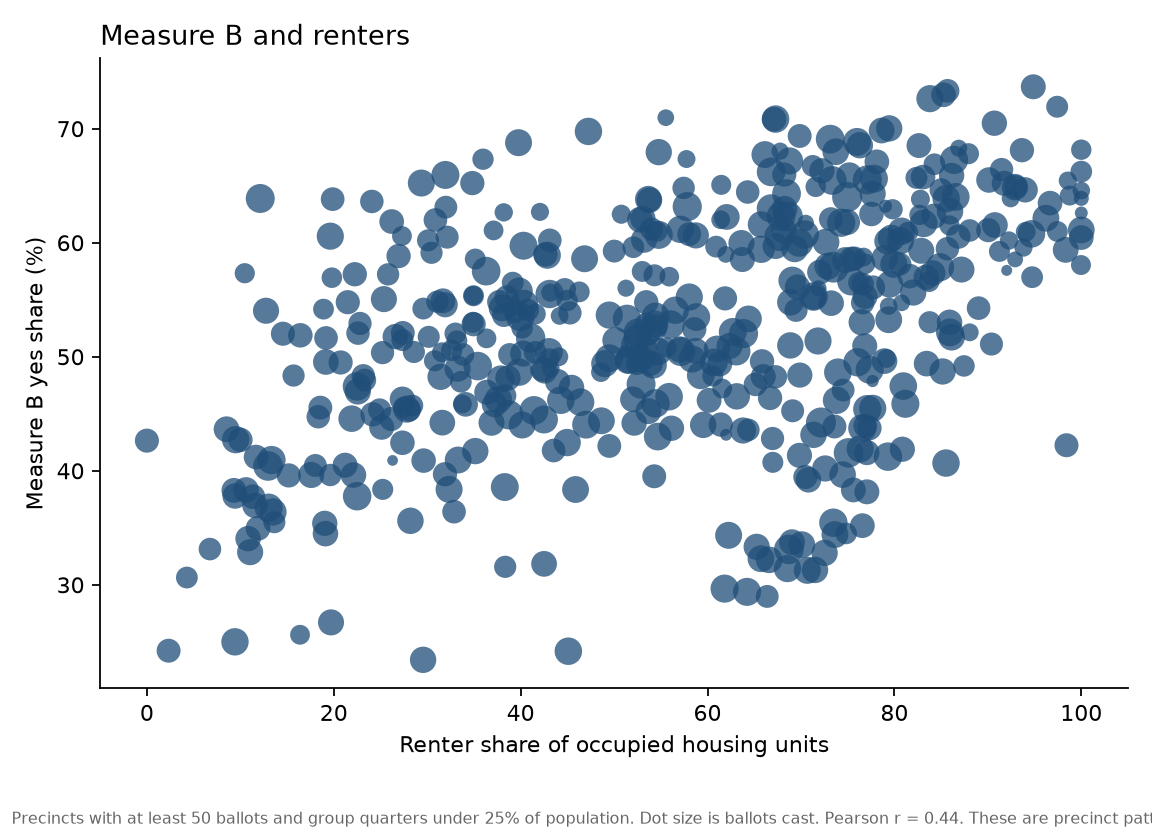
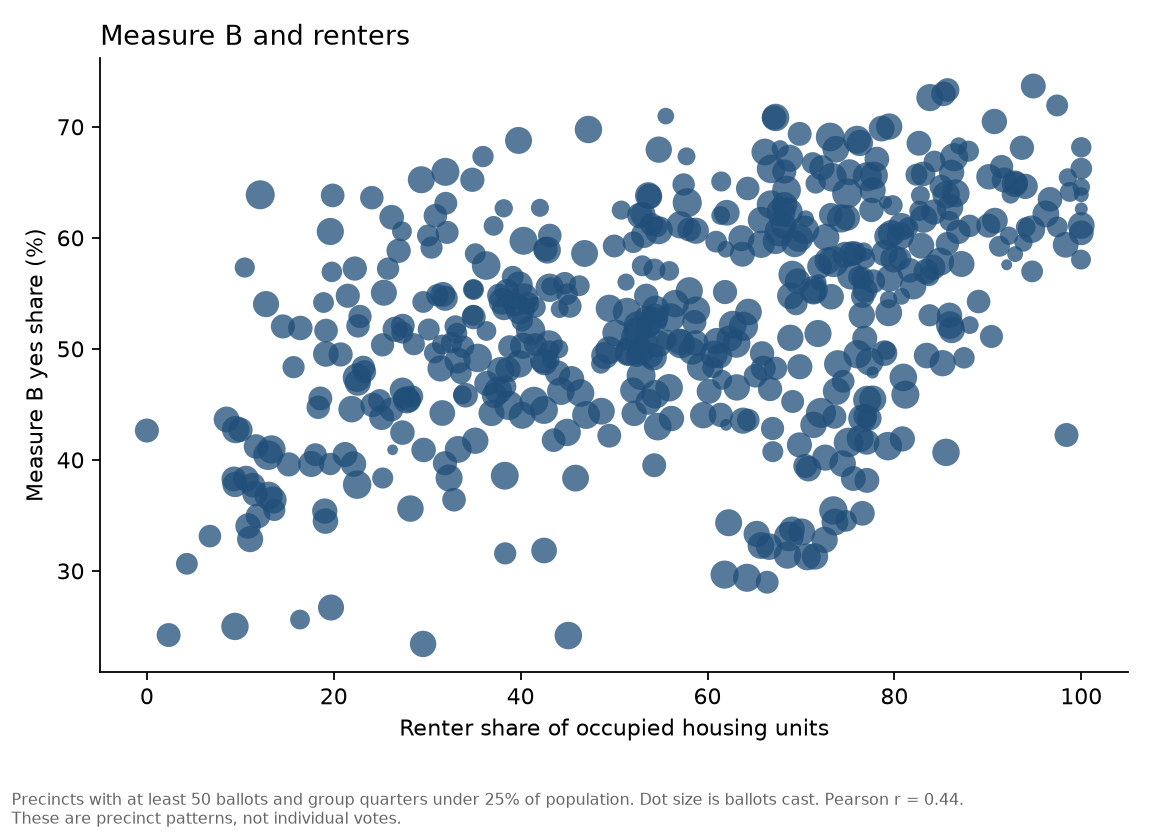
Fit every map's color scale to its data, hatch precincts with no rate, and stop clipping scatter footnotes

diff --git a/analysis/build_findings.py b/analysis/build_findings.py
@@ -9,6 +9,7 @@ not committed. Run from the repository root:
 from __future__ import annotations
 
 import json
+import math
 import re
 import urllib.request
 from pathlib import Path
@@ -17,6 +18,7 @@ import geopandas as gpd
 import matplotlib.pyplot as plt
 import pandas as pd
 from matplotlib.colors import Normalize, TwoSlopeNorm
+from matplotlib.patches import Patch
 from matplotlib.ticker import PercentFormatter
 
 from parse_sov import parse_sov, parse_summary_xml, reconcile
@@ -161,6 +163,13 @@ def district_lines(gdf: gpd.GeoDataFrame) -> gpd.GeoDataFrame:
     return gdf.dissolve(by="Supervisorial", as_index=False)
 
 
+def symmetric_limits(values: pd.Series, center: float = 0.5, step: float = 0.05) -> tuple[float, float]:
+    """Diverging-scale limits, equal on both sides of center, that hold every value."""
+    spread = (values.dropna() - center).abs().max()
+    half = math.ceil(round(spread / step, 9)) * step
+    return round(center - half, 2), round(center + half, 2)
+
+
 def choropleth(
     gdf: gpd.GeoDataFrame,
     column: str,
@@ -173,12 +182,21 @@ def choropleth(
     vmax: float,
     vcenter: float | None = None,
     districts: gpd.GeoDataFrame | None = None,
+    missing_label: str = "Fewer than 50 ballots",
 ) -> None:
     path.parent.mkdir(parents=True, exist_ok=True)
     projected = gdf.to_crs(26910)
-    fig, ax = plt.subplots(figsize=(8.2, 8.8))
-    projected.plot(ax=ax, color="#efefef", edgecolor="white", linewidth=0.12)
     colored = projected[projected[column].notna()]
+    low, high = colored[column].min(), colored[column].max()
+    # A value past the color bar would print in the end color and read as that value.
+    if low < vmin or high > vmax:
+        raise ValueError(
+            f"{path.name}: values run {low:.3f}–{high:.3f}, outside the color scale {vmin}–{vmax}"
+        )
+    fig, ax = plt.subplots(figsize=(8.2, 8.8))
+    # Hatched so a precinct with no rate can't be mistaken for one near the scale's light middle.
+    projected.plot(ax=ax, facecolor="#d4d4d4", edgecolor="#a6a6a6", hatch="//////", linewidth=0)
+    projected.plot(ax=ax, facecolor="none", edgecolor="white", linewidth=0.12)
     if vcenter is None:
         norm = Normalize(vmin=vmin, vmax=vmax)
     else:
@@ -199,6 +217,15 @@ def choropleth(
     if vmax <= 1.5:
         colorbar.ax.yaxis.set_major_formatter(PercentFormatter(xmax=1, decimals=0))
     colorbar.set_label(cbar_label)
+    if len(colored) < len(projected):
+        ax.legend(
+            handles=[
+                Patch(facecolor="#d4d4d4", edgecolor="#a6a6a6", hatch="//////", label=missing_label)
+            ],
+            loc="lower left",
+            frameon=False,
+            fontsize=8,
+        )
     ax.set_axis_off()
     fig.suptitle(title, x=0.02, ha="left", fontsize=13, color="#1a1a1a")
     ax.set_title(subtitle, loc="left", fontsize=8.5, color="#444444", pad=8)
@@ -427,12 +454,12 @@ def write_census_charts() -> None:
             0.01,
             0.01,
             f"Precincts with at least {MIN_BALLOTS} ballots and group quarters under 25% of population. "
-            f"Dot size is ballots cast. Pearson r = {correlation:.2f}. "
+            f"Dot size is ballots cast. Pearson r = {correlation:.2f}.\n"
             "These are precinct patterns, not individual votes.",
             fontsize=7,
             color="#666666",
         )
-        fig.tight_layout(rect=(0, 0.06, 1, 1))
+        fig.tight_layout(rect=(0, 0.08, 1, 1))
         fig.savefig(FIG / filename, dpi=160)
         plt.close(fig)
         notes.append({"chart": filename, "r": round(float(correlation), 3), "n": int(len(subset))})
@@ -530,8 +557,10 @@ def main() -> None:
         "measure_b_yes_share", gdf["measure_b__yes"].fillna(0) + gdf["measure_b__no"].fillna(0)
     )
     gdf["added_mapped"] = gdf["added_yes_share"].where(gdf["added_ballots"] >= 30)
-    # Angel Island and Alameda Island are zero-voter boundary precincts. They
-    # stay in the data file and come off the map so they don't shrink the city.
+    # Four precincts have no registered voters: Angel Island (9904), Alameda
+    # Island (9903), and two small inland ones in Outer Mission (9901) and
+    # Portola (9902). They stay in the data file and come off the maps; the
+    # islands would otherwise shrink the city.
     map_gdf = gdf[gdf["registered"].fillna(0) > 0].copy()
     districts = district_lines(map_gdf)
 
@@ -544,10 +573,10 @@ def main() -> None:
         "turnout_mapped",
         FIG / "turnout.png",
         "Turnout by precinct",
-        "Ballots counted divided by registered voters. Precincts under 50 ballots are gray.",
+        "Ballots counted divided by registered voters. Precincts under 50 ballots are hatched gray.",
         "Turnout",
         "YlGnBu",
-        vmin=0.35,
+        vmin=0.25,
         vmax=0.85,
         districts=districts,
     )
@@ -559,7 +588,7 @@ def main() -> None:
         "Mail ballots divided by ballots cast. Citywide, mail is about 89% of the count.",
         "Mail share",
         "PuBu",
-        vmin=0.7,
+        vmin=0.55,
         vmax=1.0,
         districts=districts,
     )
@@ -580,24 +609,23 @@ def main() -> None:
         "chan_mapped",
         FIG / "ca11_chan.png",
         "CA-11: Connie Chan's share of the two-candidate vote",
-        "Scott Wiener and Connie Chan, both Democrats. Gray precincts are outside District 11 or under 50 ballots.",
+        "Scott Wiener and Connie Chan, both Democrats. Hatched gray precincts are in CA-15 or cast under 50 ballots.",
         "Chan share",
         "PuOr",
-        vmin=0.30,
-        vmax=0.70,
+        *symmetric_limits(gdf["chan_mapped"]),
         vcenter=0.50,
         districts=districts,
+        missing_label="In CA-15, or fewer than 50 ballots",
     )
     choropleth(
         map_gdf,
         "measure_b_mapped",
         FIG / "measure_b_yes.png",
         "Measure B: yes share",
-        f"{titles.get('Measure B', 'Measure B')}. Gray precincts cast fewer than 50 ballots.",
+        f"{titles.get('Measure B', 'Measure B')}. Hatched gray precincts cast fewer than 50 ballots.",
         "Yes share",
         "BrBG",
-        vmin=0.35,
-        vmax=0.65,
+        *symmetric_limits(gdf["measure_b_mapped"]),
         vcenter=0.50,
         districts=districts,
     )
@@ -606,13 +634,13 @@ def main() -> None:
         "added_mapped",
         FIG / "measure_b_ballots_after_nov4.png",
         "Measure B: yes share of ballots counted after November 4",
-        "Votes added between Report 5 (No still ahead) and Report 9. Precincts with fewer than 30 added votes are gray.",
+        "Votes added between Report 5 (No still ahead) and Report 9. Precincts with fewer than 30 added votes are hatched gray.",
         "Yes share of added votes",
         "BrBG",
-        vmin=0.35,
-        vmax=0.75,
+        *symmetric_limits(gdf["added_mapped"]),
         vcenter=0.50,
         districts=districts,
+        missing_label="Fewer than 30 added votes",
     )
 
     # Every local measure varies by supervisor district. Map the close ones and
@@ -636,11 +664,10 @@ def main() -> None:
             f"{slug}_mapped",
             FIG / f"{slug}_yes.png",
             f"{contest}: yes share",
-            titles.get(contest, contest),
+            f"{titles.get(contest, contest)}. Hatched gray precincts cast fewer than 50 ballots.",
             "Yes share",
             "BrBG",
-            vmin=0.30,
-            vmax=0.70,
+            *symmetric_limits(gdf[f"{slug}_mapped"]),
             vcenter=0.50,
             districts=districts,
         )
@@ -663,7 +690,7 @@ def main() -> None:
         ca_frame,
         "chan_share",
         FIG / "ca11_by_district.png",
-        "CA-11 Chan share, by supervisor district (District 11 precincts only)",
+        "CA-11: Chan share by supervisor district (CA-11 precincts only)",
         "Chan share of the two-candidate vote (%)",
     )
     b_frame = gdf.copy()
